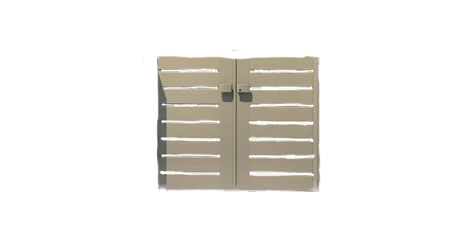
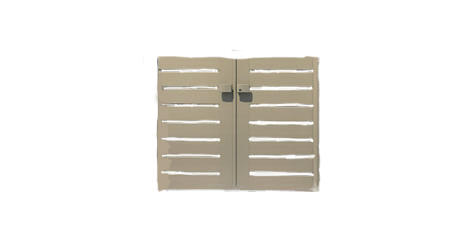
edit

Changed region(s): [[0.3235, 0.3222, 0.3529, 0.8201]]

diff --git a/index.html b/index.html
@@ -90,8 +90,8 @@
         const wallGeometry = new THREE.BoxGeometry(1,2,1);
         const wallMaterial = new THREE.MeshLambertMaterial({map:wallTexture,side:THREE.DoubleSide});
         const wall1 = new THREE.Mesh(wallGeometry,wallMaterial);
-        wall1.scale.set(2,1.5,0.3);
-        wall1.position.set(-3.45,1,0);
+        wall1.scale.set(3,1.5,0.3);
+        wall1.position.set(-2.45,1,0);
         scene.add(wall1);
 
         const wall2 = new THREE.Mesh(wallGeometry,wallMaterial);
